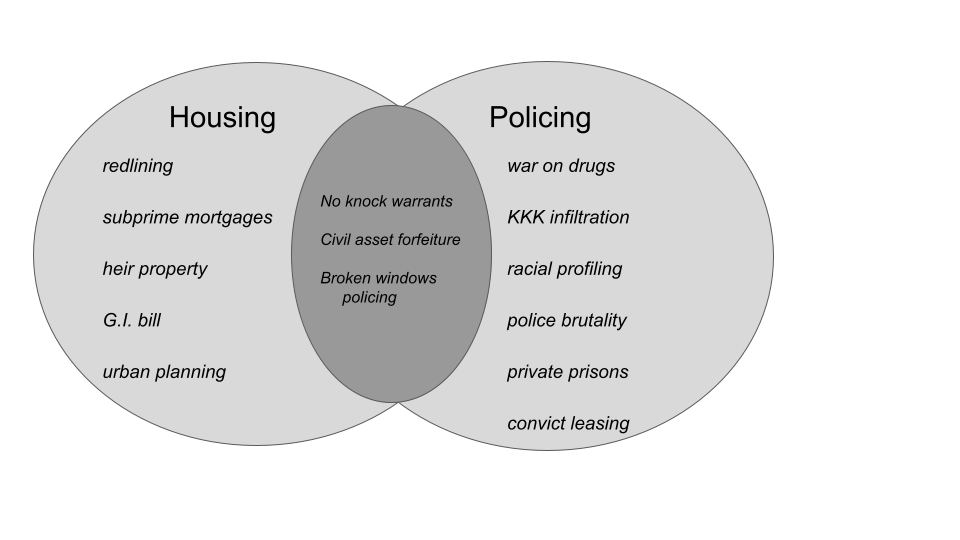
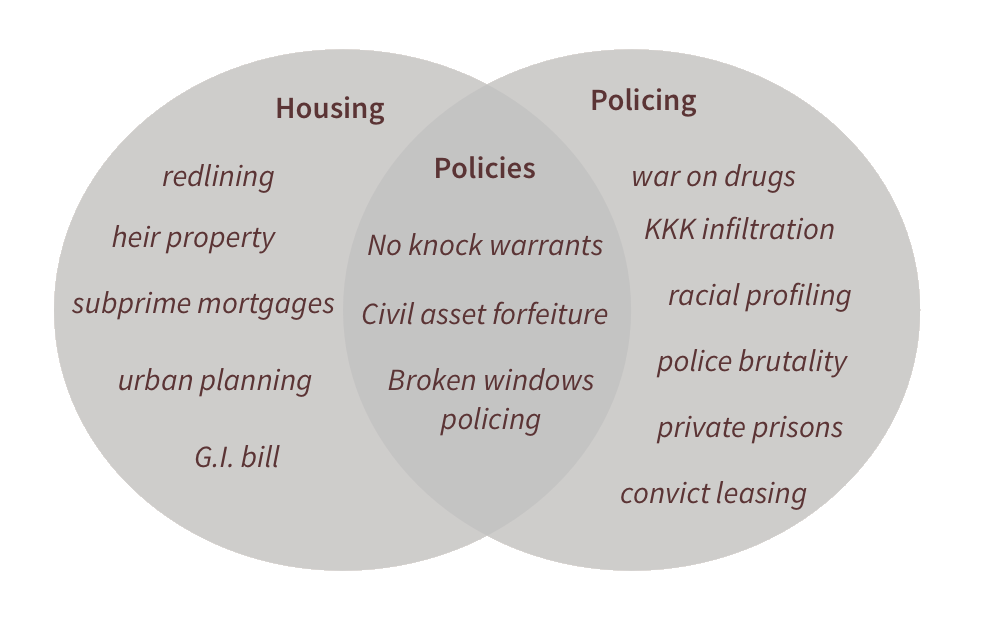
update venn diagram and design of additional resources page

diff --git a/stylesheets/main.css b/stylesheets/main.css
@@ -29,6 +29,16 @@ h4 {
 	margin-bottom: 20px;
 }
 
+.red-banner {
+	background-color: #702f21;
+	color: #ffffff;
+	min-height: 50px;
+	margin-bottom: 0px;
+	padding: 5px;
+	width: 250px;
+	text-align: center;
+}
+
 .quote {
 	font-size: 1.1rem;
 	font-weight: 600;

diff --git a/data.md b/data.md
@@ -4,23 +4,32 @@ nav-link: data
 ---
 <div class="row p-3">
     <div class="col-12">
-        <h1>Data on Systemic Racism</h1>
-        <div class="row">
-            <div class="col-6">
-                <p>Individual policies around housing and policing have systematic impacts, and when put together, these policies re-inforce and further propogate disparities.  We are gathering data to show the interconnectedness of these policies and their impact on systemic racism in the San Francisco Bay area and California.  Here are some searches to explore:</p>
-                <ul>
-                <li><a href="https://guides.library.stanford.edu/SystemicRacismTracker">Systemic Racism Tracker's Additional Resources</a> - A List of resources documenting the history of how American systems shaped by racist policies harm people of African descent.</li>
-                <li><a href="https://searchworks.stanford.edu/articles?search_field=search&q=housing+AND+polic*+AND+Bay+Area">Articles in Searchworks</a> (Stanford University Libraries catalog)</li>
-                <li><a href="https://searchworks.stanford.edu/?search_field=search&q=housing+AND+polic*+AND+Bay+Area">Books in Searchworks</a> (Stanford University Libraries catalog)</li>
-                <li><a href="https://www.worldcat.org/search?q=housing+AND+policing+AND+Bay+Area">Worldcat</a> (worldwide network of library catalogs)</li>
-                <li><a href="https://dp.la/search?q=housing+AND+police+AND+California">Digital Public Library of America</a> (digital resources from across the US)</li>
-                </ul>
-                <h3>Examples of policies and how they intersect</h3>
-                <img alt="Housing/Policing Venn Diagram" src="images/housing_policing_venn_diagram.png">
+        <h1>Resources and Data on Systemic Racism</h1>
+        <p>Individual policies around housing and policing have systematic impacts, and when put together, these policies re-inforce and further propogate disparities.  We are gathering data to show the interconnectedness of these policies and their impact on systemic racism in the San Francisco Bay area and California.  Here are some searches to explore:</p>
+        <div class="row justify-content-center">
+            <div class="col-4 pb-4"><p class="red-banner">Systemic Racism Tracker's Additional Resources</p>
+                <a href="https://guides.library.stanford.edu/SystemicRacismTracker"><img src="images/blm.png" alt="Black Lives Matter"></a>
             </div>
-            <div class="col-6">
-            <p>Watch a short film on predictive policing and "algorithmic violence":</p>
-            <iframe src="https://embed.stanford.edu/iframe?url=https://purl.stanford.edu/gq999bh9311&hide_title=true" height="300px" width="90%" title="Media viewer" frameborder="0" marginwidth="0" marginheight="0" scrolling="no" allowfullscreen></iframe>
+             <div class="col-4 pb-4"><p class="red-banner">Articles & Books in Searchworks</p>
+                <a href="https://library.stanford.edu/all/?q=housing+AND+polic%2A+AND+Bay+Area"><img src="images/green_exhibit.jpg" alt="Stanford University Libraries"></a>
+            </div>
+        </div>
+        <div class="row justify-content-center">
+            <div class="col-4 pb-4"><p class="red-banner">WorldCat</p>
+                <a href="https://www.worldcat.org/search?q=housing+AND+policing+AND+Bay+Area"><img src="images/WorldCat_Logo.png" alt="WorldCat"></a>
+            </div>
+            <div class="col-4 pb-4"><p class="red-banner">Digital Public Library of America</p>
+                <a href="https://dp.la/search?q=housing+AND+police+AND+California"><img src="images/dpla-logo-square_250.png" alt="Digital Public Library of America"></a>
+            </div>
+        </div>
+        <div class="row pt-4 justify-content-center">
+            <div class="col-6 text-center">
+                <h3>Examples of policies and how they intersect</h3>
+                <img width="100%" alt="Housing/Policing Venn Diagram" src="images/housing_policing_venn_diagram.png">
+            </div>
+            <div class="col-6 text-center">
+                <h3>Watch a short film on predictive policing and "algorithmic violence"</h3>
+                <iframe src="https://embed.stanford.edu/iframe?url=https://purl.stanford.edu/gq999bh9311&hide_title=true" height="300px" width="80%" title="Media viewer" frameborder="0" marginwidth="0" marginheight="0" scrolling="no" allowfullscreen></iframe>
             </div>
         </div>
     </div>
